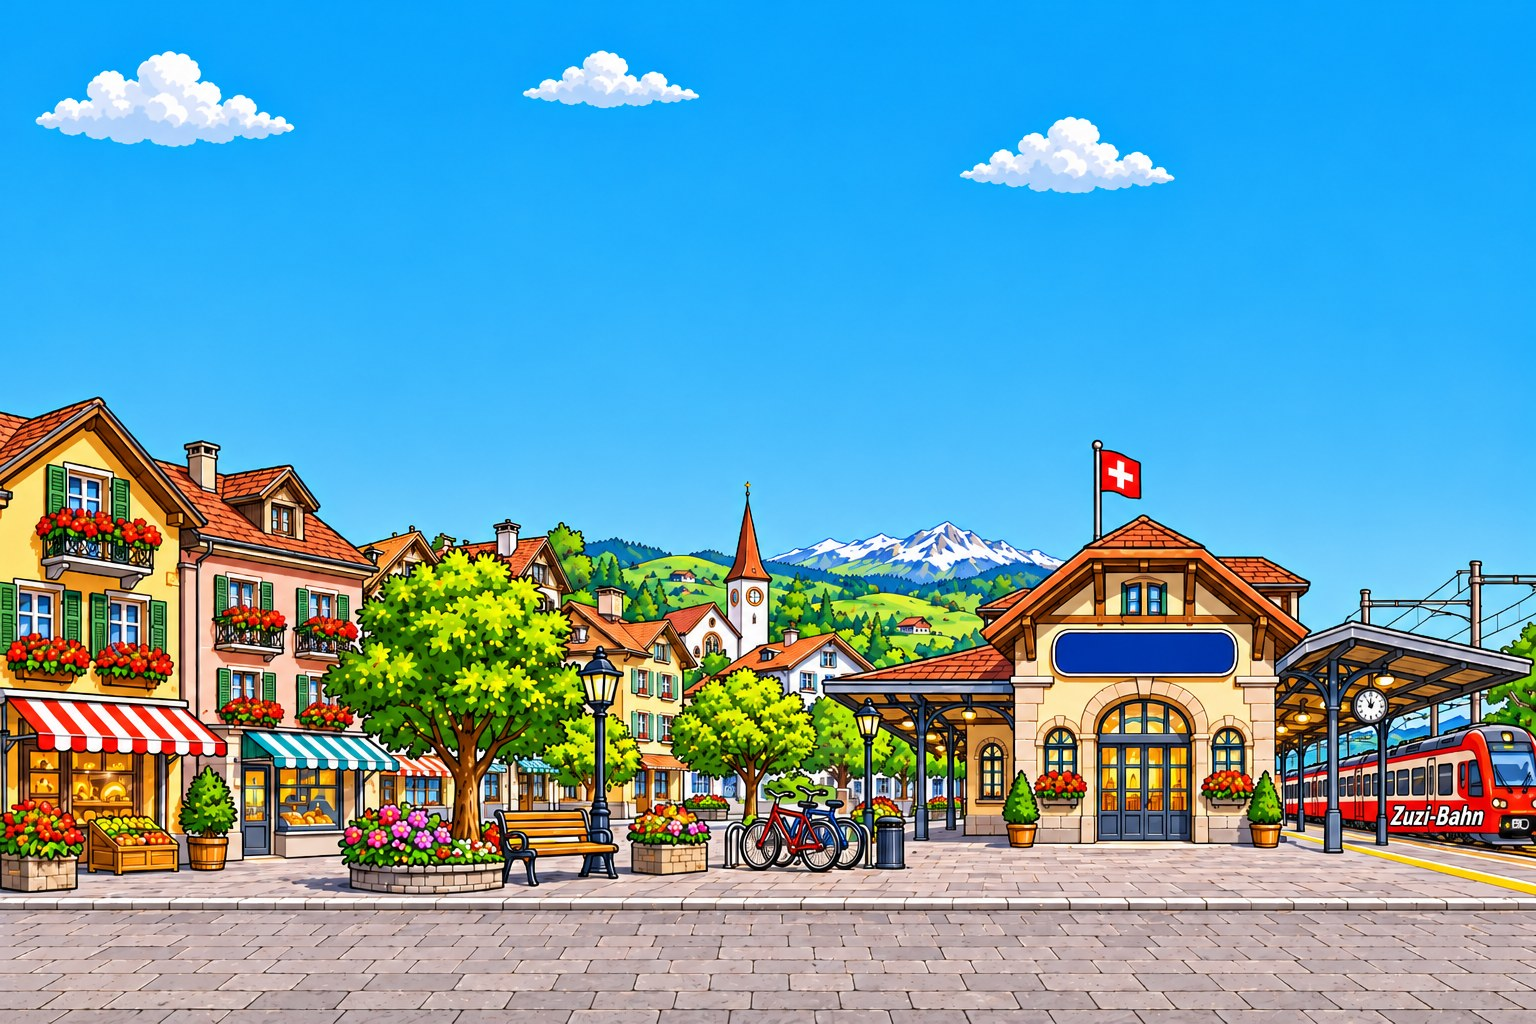
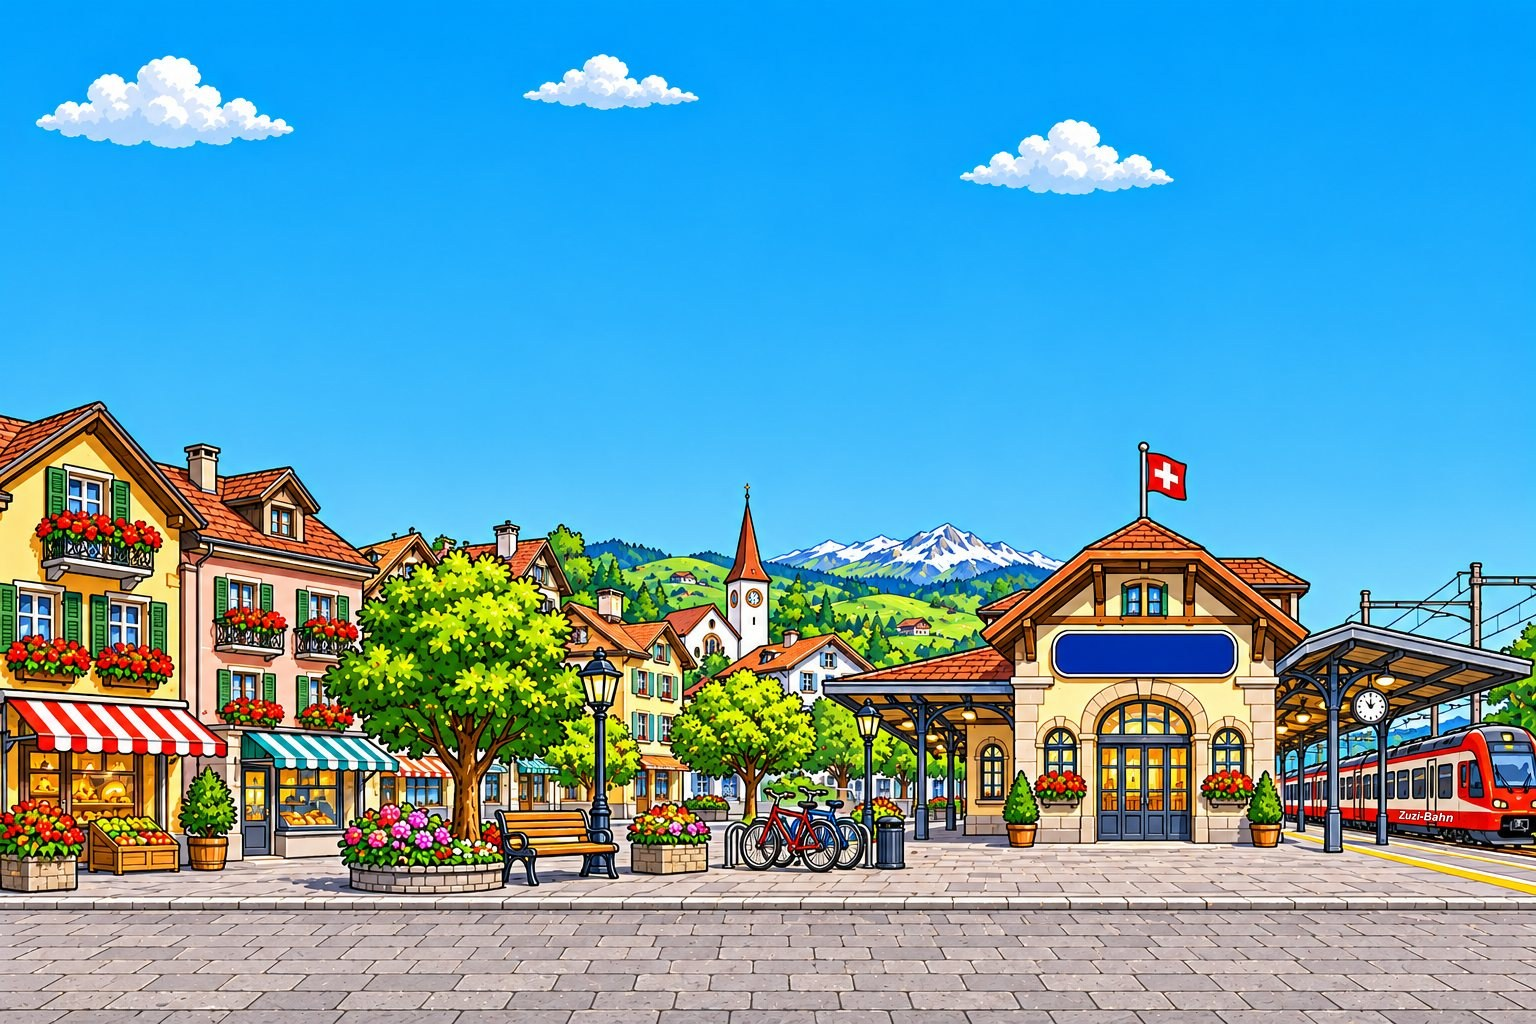
Mathe-Erlebnisse: Schriftzug «Zuzi-Bahn» perspektivisch auf dem roten Band des Zugs

diff --git a/spiele/mathe-wanderung/welten.js b/spiele/mathe-wanderung/welten.js
@@ -253,7 +253,7 @@ WELTEN.aadorf = {
       + `<rect x="1101" y="113" width="184" height="42" rx="9" fill="#1d3f9e"/>
          <rect x="1106" y="118" width="174" height="32" rx="6" fill="none" stroke="#fff" stroke-width="2.5"/>
          <text x="1193" y="145" text-anchor="middle" font-family="Arial, Helvetica, sans-serif" font-weight="700" font-size="28" fill="#fff">Aadorf</text>`;
-      // der Schriftzug «Zuzi-Bahn» ist direkt auf den Zug gemalt (im Bild, ChatGPT)
+      // der Schriftzug «Zuzi-Bahn» ist perspektivisch auf das rote Band des Zugs gesetzt (im Bild)
   }
 };
 

diff --git a/README.md b/README.md
@@ -71,7 +71,7 @@ Bild `spiele/mathe-fussball/bilder/vogel.png` und die Bilder in `spiele/mathe-fu
 
 Bilder in `spiele/uhr-lesen/bilder/` (Tiere mit Fackel, gebückte Tiere beim Zünden, Flammenbilder für die flackernde Fackel, Rakete mit Zündschnüren, Wecker, Abendlandschaft, Fuchs mit Uhr für die Startseite) erstellt mit ChatGPT. Uhren, Zeiger, rote Segment-Ziffern, Zündschnur und Feuerwerk sind im Code gezeichnet (`uhr.js`, `spiel.js`). Uhr lesen verwendet zusätzlich die Töne `richtig.mp3`, `falsch.mp3` und `tick.wav`, die Tierköpfe, die jubelnden Figuren und den Vogel aus Mathe-Fussball; Zischen, Heulen und Knall der Rakete werden im Code erzeugt.
 
-Mathe-Erlebnisse: Mit ChatGPT erstellt sind der Bär-Wanderer (`spiele/mathe-wanderung/bilder/baer-wandern.png`), die 14 Welt-Hintergründe (`bilder/welten/`, mit den aufgesprühten Ziellinien, dem Landeplatz im Gras und dem Schriftzug «Zuzi-Bahn»), die Maschinen, das Steuerpult, das U-Boot, Möwen und die Münze (`bilder/teile/`), die Fahrzeuge mit jedem Tier am Steuer (Buggy, Boot, Flugzeug mit Fliegerbrille, Schlitten, Gleitschirm mit Gurtzeug; `bilder/fahrzeuge/`) und die Posen zum Hebelziehen (`bilder/hebel/`). Ortsnamen («Zuzwil», «Aadorf»), Fahnen, Stufen-Zeichen, Zielband, Windsack, Hebel, Kabel und Kran sind im Code gezeichnet (`welten.js`, `index.html`). Das Spiel benutzt die Tierfiguren, Tierköpfe, den Vogel und die Töne von Mathe-Fussball. Das Kran-Geräusch `spiele/mathe-wanderung/toene/kran-hydraulik.mp3` ist «Homemade hydraulic hoist» von chainsaw_dinner_party (Freesound) über Pixabay (https://pixabay.com/sound-effects/technology-homemade-hydraulic-hoist-30527/, Pixabay Content License); das Spiel spielt nur Ausschnitte daraus, ohne die gesprochenen Worte am Anfang.
+Mathe-Erlebnisse: Mit ChatGPT erstellt sind der Bär-Wanderer (`spiele/mathe-wanderung/bilder/baer-wandern.png`), die 14 Welt-Hintergründe (`bilder/welten/`, mit den aufgesprühten Ziellinien und dem Landeplatz im Gras; den Schriftzug «Zuzi-Bahn» auf dem Zug haben wir selbst perspektivisch eingesetzt), die Maschinen, das Steuerpult, das U-Boot, Möwen und die Münze (`bilder/teile/`), die Fahrzeuge mit jedem Tier am Steuer (Buggy, Boot, Flugzeug mit Fliegerbrille, Schlitten, Gleitschirm mit Gurtzeug; `bilder/fahrzeuge/`) und die Posen zum Hebelziehen (`bilder/hebel/`). Ortsnamen («Zuzwil», «Aadorf»), Fahnen, Stufen-Zeichen, Zielband, Windsack, Hebel, Kabel und Kran sind im Code gezeichnet (`welten.js`, `index.html`). Das Spiel benutzt die Tierfiguren, Tierköpfe, den Vogel und die Töne von Mathe-Fussball. Das Kran-Geräusch `spiele/mathe-wanderung/toene/kran-hydraulik.mp3` ist «Homemade hydraulic hoist» von chainsaw_dinner_party (Freesound) über Pixabay (https://pixabay.com/sound-effects/technology-homemade-hydraulic-hoist-30527/, Pixabay Content License); das Spiel spielt nur Ausschnitte daraus, ohne die gesprochenen Worte am Anfang.
 
 Einkaufen: Die Bilder in `spiele/einkaufen/bilder/` (Laden-Hintergrund, 30 Produkte in `produkte/`, Kassiererin, Goldsäckchen, Elefant mit Einkaufskorb) wurden mit ChatGPT erstellt. Regal, Kühlschrank, Kasse, Preisschilder, die aufgestickten Zahlen und die Münzen sind im Code gezeichnet (`style.css`, `spiel.js`). Das Spiel benutzt die Töne `richtig.mp3`, `falsch.mp3`, `tick.wav` und `jubel.mp3`, die Tierköpfe, die jubelnden Figuren und den Vogel von Mathe-Fussball; das Klimpern der Münzen wird im Code erzeugt.
 
